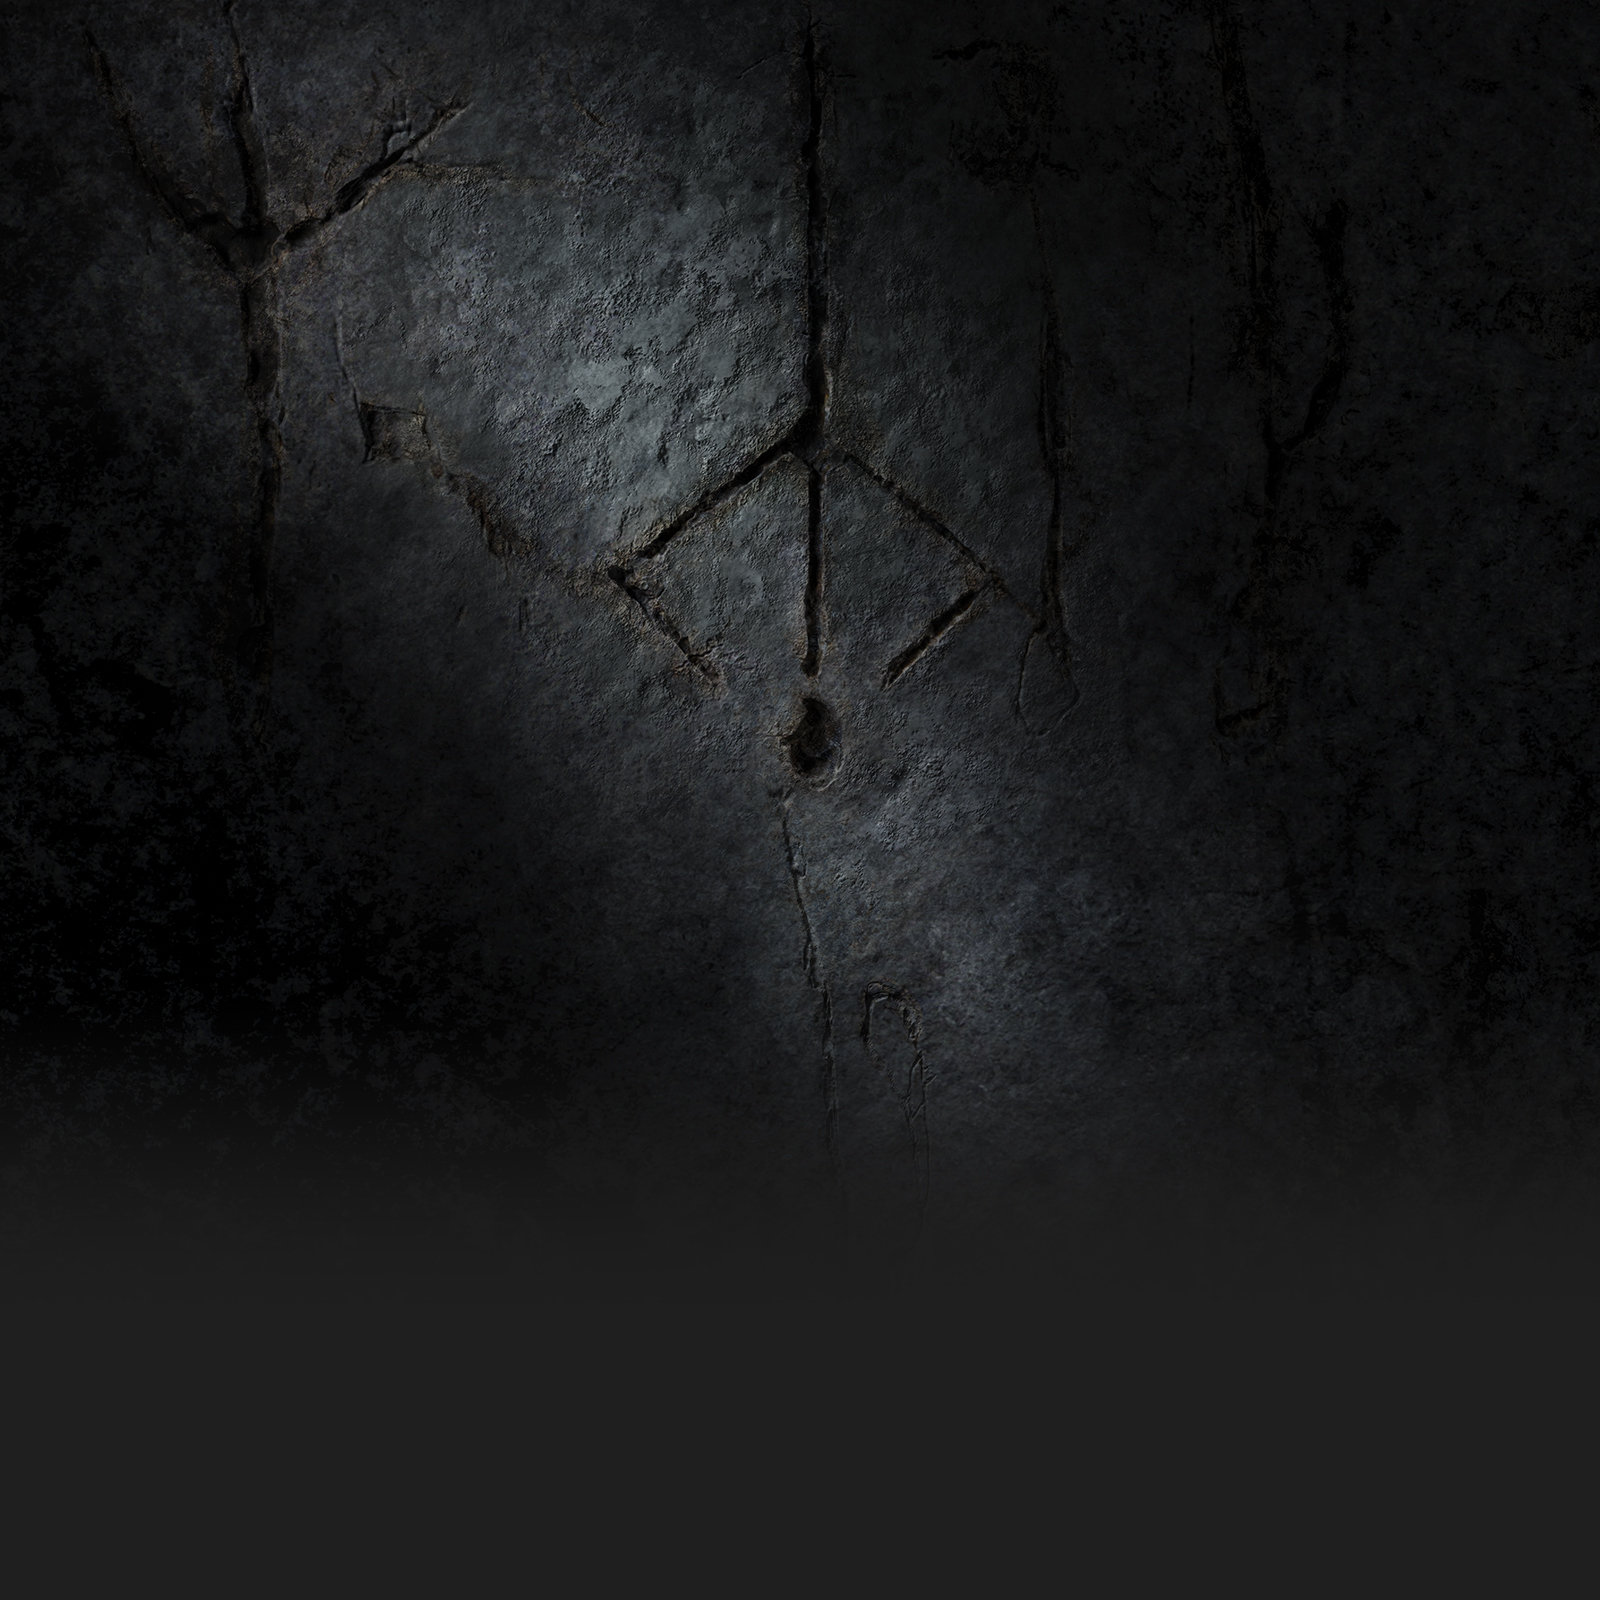
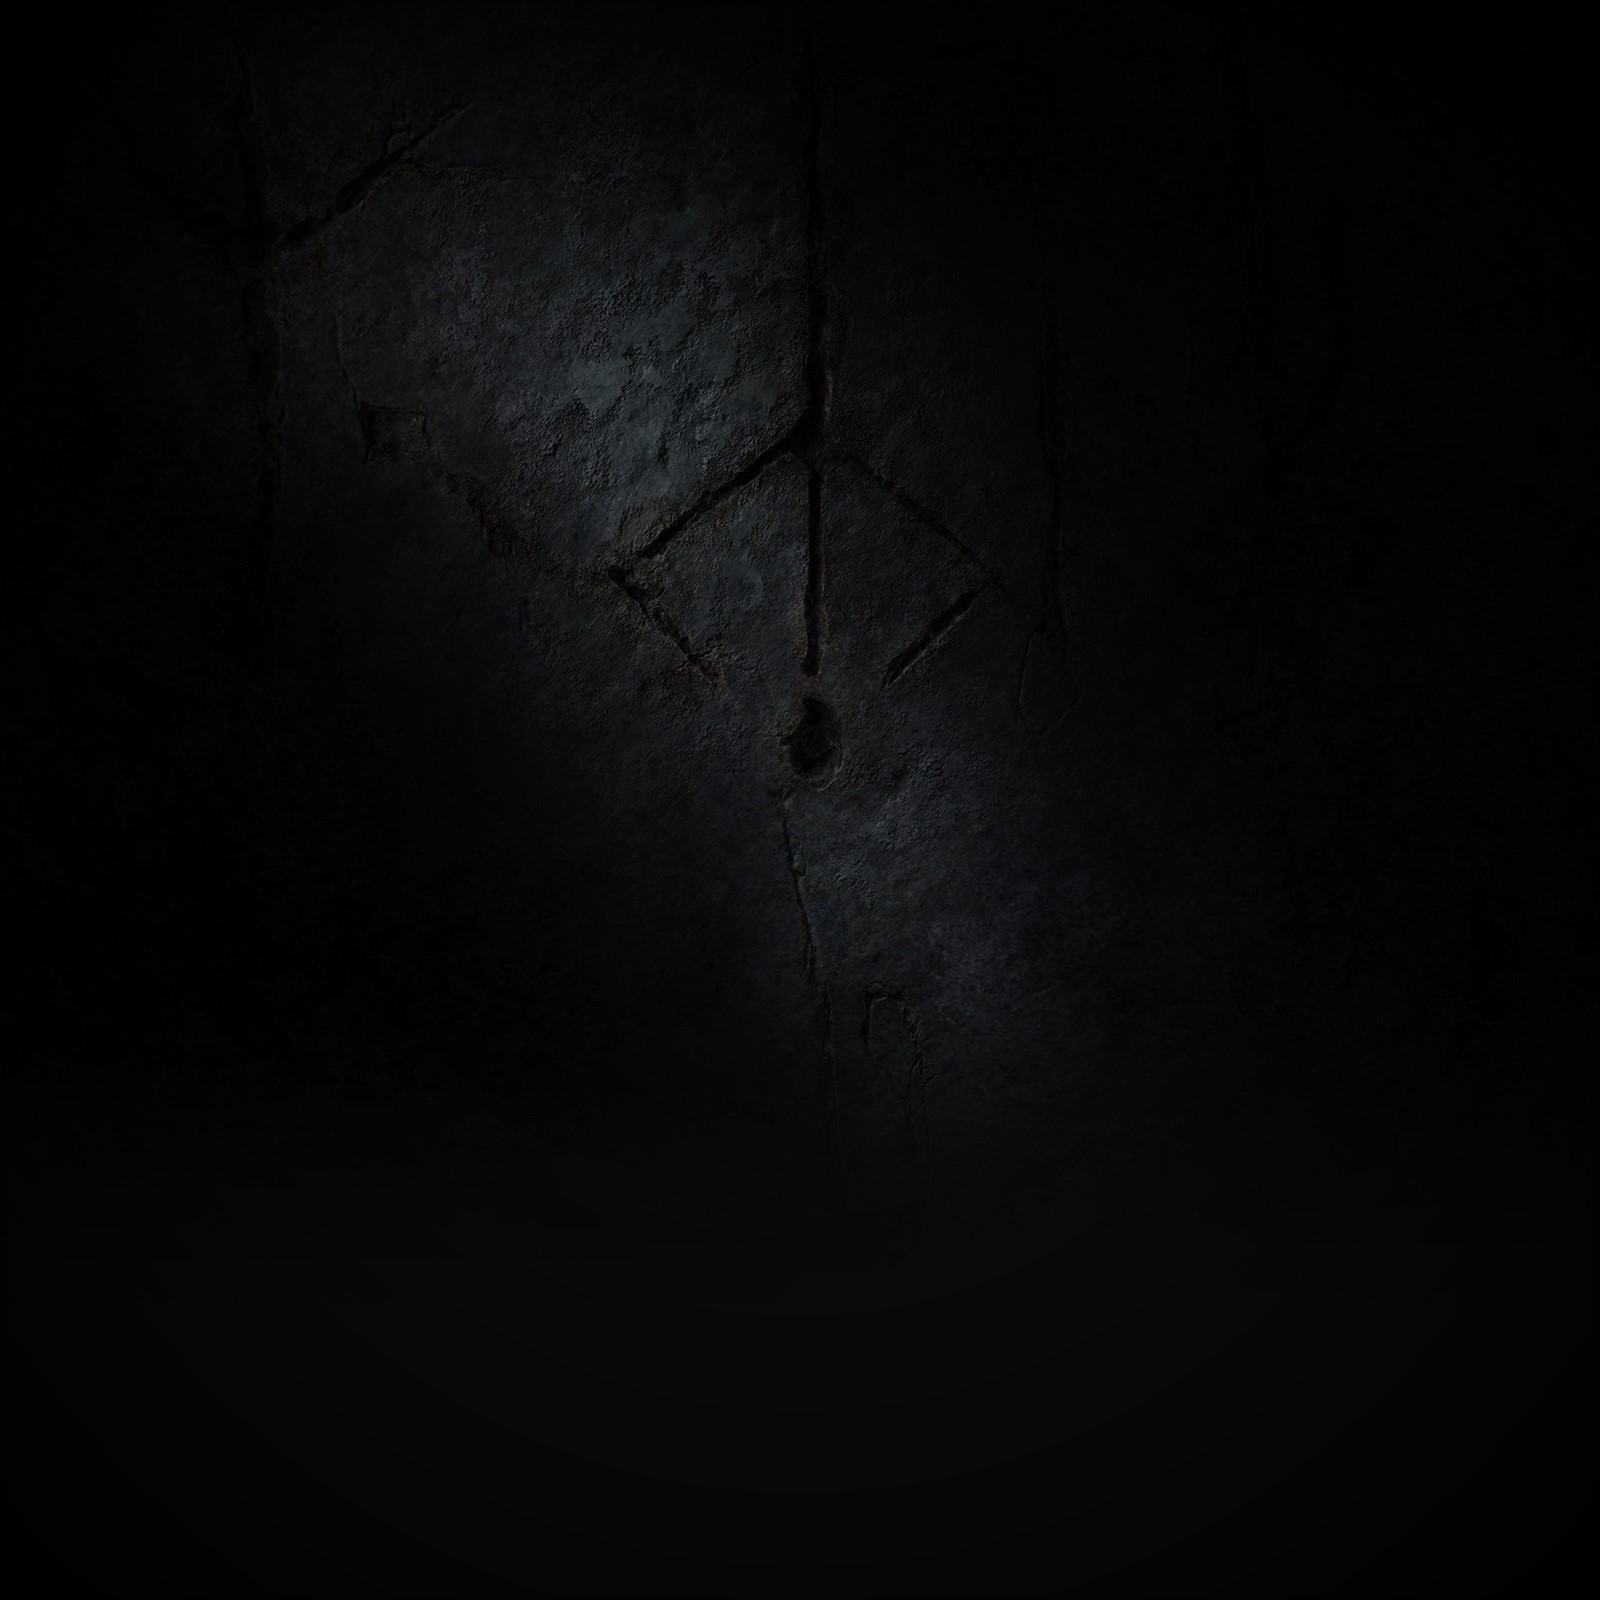
Style changes made to make the app resemble the game more.

Changed region(s): [[0.0312, 0.0, 0.7188, 0.7188], [0.0, 0.75, 1.0, 1.0]]

diff --git a/src/app/characters/characters.component.css b/src/app/characters/characters.component.css
@@ -1,27 +1,40 @@
-h2 { text-align: center }
+  h2 { 
+  text-align: center;
+  color:#8A8660;
+  text-shadow: 1px 1px 2px #000000;
+  font-size: 180%;
+  }
 
-.app-characters { text-align: center }
+  .app-characters { text-align: center }
 
-.characters {
+  .characters {
     margin-left: auto;
     margin-right: auto;
     list-style-type: none;
     padding: 0;
     width: 15em;
+    color:#8A8660;
+  }
+
+  .players {
+    font-size: 80%;
+    margin: -1px 0 0 0;
   }
   .characters li {
     cursor: pointer;
     position: relative;
     left: 0;
-    background-color: #EEE;
-    margin: .5em;
-    padding: .8em 0 0 .7em;
+    background-color: #1E1E1E;
+    margin: -4px 0.5em 0.5em 0.5em;
+    padding: 0.1em 0px 0px 0.5em;
     height: 3em;
-    border-radius: 4px;
+    border: 1px solid #5e5a51;
+    border-radius: 1px;
+    text-shadow: 1px 1px 2px #000000;
   }
   .characters li:hover {
-    color: #607D8B;
-    background-color: #DDD;
+    color: #9C9996;
+    background-color: #343A48;
     left: .1em;
   }
   .characters li.selected {

diff --git a/src/app/characters/characters.component.html b/src/app/characters/characters.component.html
@@ -4,6 +4,7 @@
     <h2>Team A</h2>
     <li *ngFor="let character of teamA">
       {{character.name}}
+      <div class="players">{{character.player}}</div>
     </li>
   </ul>
   
@@ -12,7 +13,7 @@
     <h2>Team B</h2>
     <li *ngFor="let character of teamB">
       {{character.name}}
-      <!-- <span> - {{character.player}}</span> -->
+      <div class="players">{{character.player}}</div>
     </li>
   </ul>
   
@@ -21,13 +22,14 @@
     <h2>Team C</h2>
     <li *ngFor="let character of teamC">
       {{character.name}}
+      <div class="players">{{character.player}}</div>
     </li>
   </ul>
 </div>
 
-<button mat-raised-button color="primary"
+<!-- <button mat-raised-button color="primary"
         class="generate" 
         title="generate class" 
         style="margin:  0 auto;
                display: block;"
-        (click)="getCharacters()">Generate Teams</button>
+        (click)="getCharacters()">Generate Teams</button> -->

diff --git a/src/styles.css b/src/styles.css
@@ -14,16 +14,26 @@ h1 {
     margin: 2em;
   }
   body, input[type="text"], button {
-    color:#96815b;
     font-family: Georgia, Cambria;
   }
   /* everywhere else */
   * {
     font-family: Georgia, Arial, Helvetica, sans-serif;
   }
-html, body { height: 100%; }
+
+  html, body { 
+    height: 100%; 
+  }
+
 body { 
   margin: 0; 
   font-family: Georgia, Roboto, "Helvetica Neue", sans-serif;
-  background-image: url(.\assets\images\background.png);
-  background-color: #444; }
+  background-image: url(\assets\images\background.png);
+  background-attachment: fixed;
+  background-size: cover;
+  background-color: #444; 
+}
+
+img.background {
+  filter: brightness(200%);
+}
